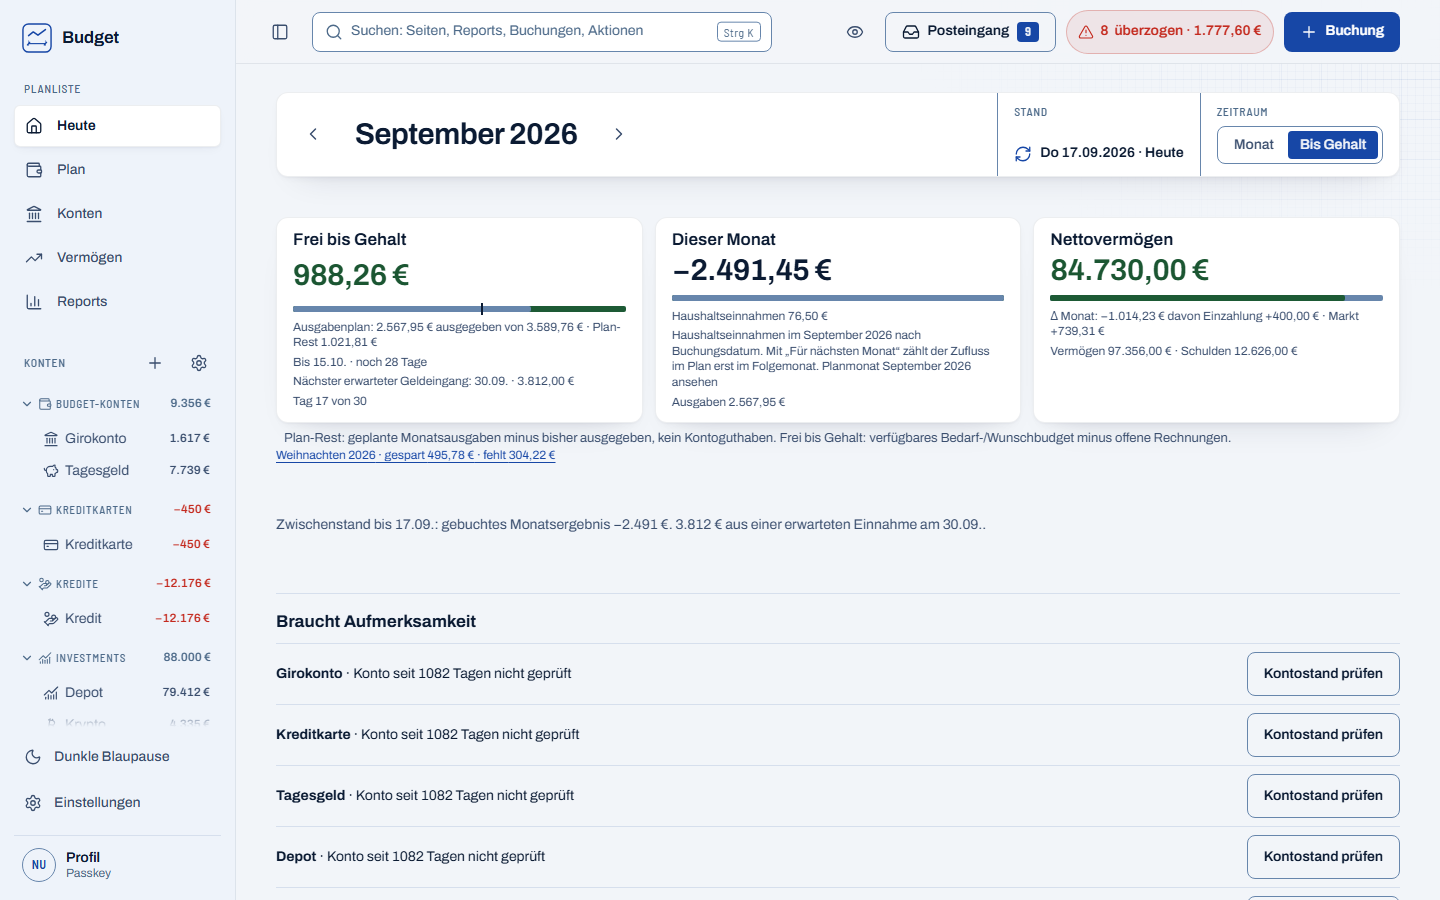
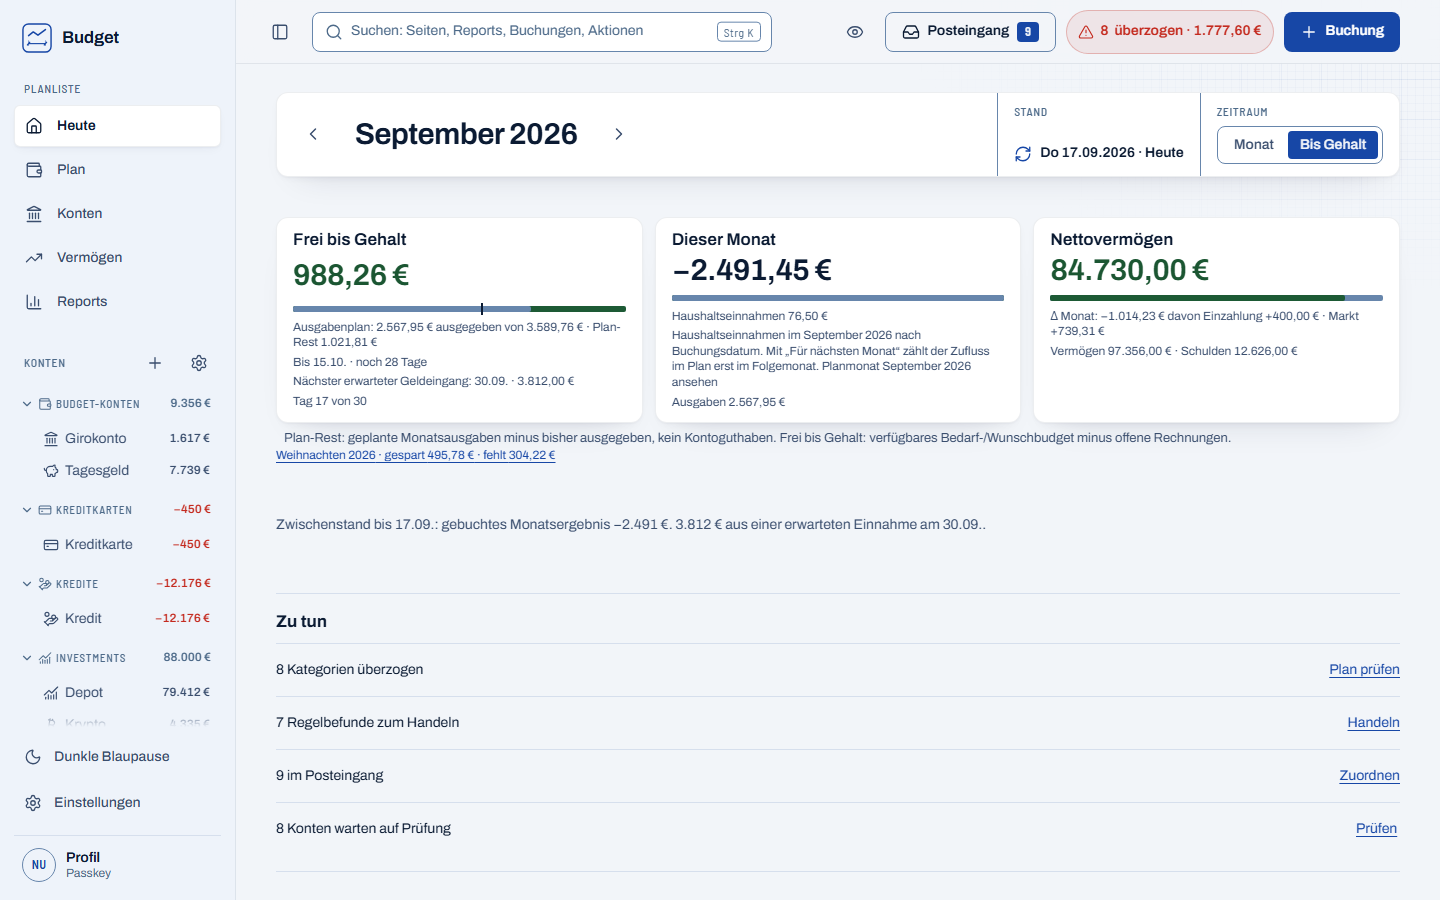
test(contrast): verify current UI against actual viewport bounds

Changed region(s): [[0.1875, 0.6844, 0.4062, 0.9644], [0.875, 0.7156, 0.9688, 1.0]]

diff --git a/e2e/contrast-tokens.spec.ts b/e2e/contrast-tokens.spec.ts
@@ -7,6 +7,7 @@ for (const theme of ['light', 'dark'] as const) {
     page,
   }, info) => {
     test.setTimeout(90_000);
+    const viewportWidth = page.viewportSize()!.width;
     await page.emulateMedia({ colorScheme: theme });
     await page.goto('/?monat=2026-09');
     await expect(page.getByTestId('heute-lead-value')).toBeVisible();
@@ -50,8 +51,8 @@ for (const theme of ['light', 'dark'] as const) {
     expect(ratios.text).toBeGreaterThanOrEqual(4.5);
     expect(ratios.positiveText).toBeGreaterThanOrEqual(4.5);
     expect((await new AxeBuilder({ page }).include('main').analyze()).violations).toEqual([]);
-    expect(await page.evaluate(() => document.documentElement.scrollWidth <= innerWidth)).toBe(
-      true,
+    expect(await page.evaluate(() => document.documentElement.scrollWidth)).toBeLessThanOrEqual(
+      viewportWidth,
     );
 
     const dir = 'docs/evidence/contrast-tokens-q1';
@@ -79,8 +80,8 @@ for (const theme of ['light', 'dark'] as const) {
     expect((await new AxeBuilder({ page }).include('dialog[open]').analyze()).violations).toEqual(
       [],
     );
-    expect(await page.evaluate(() => document.documentElement.scrollWidth <= innerWidth)).toBe(
-      true,
+    expect(await page.evaluate(() => document.documentElement.scrollWidth)).toBeLessThanOrEqual(
+      viewportWidth,
     );
     const fields = await form.locator('input, select, button').evaluateAll((elements) =>
       elements

diff --git a/docs/evidence/contrast-tokens-q1/README.md b/docs/evidence/contrast-tokens-q1/README.md
@@ -4,6 +4,6 @@ DESIGN.md remains the source for generated tokens. Field/segment boundaries and 
 
 Tinted hover/selected rows and selected controls inherit ink-2 for metadata normally using ink-3. Source RGB, linear-light luminance and alpha-composited tint tests verify light, system-dark, forced-dark and print. Browser checks also read the minified tokens and actual row metadata.
 
-Verification: 29 token/contrast unit tests passed, including local positive-hero alpha remapping. Six light/dark scenarios passed on desktop 1440, Chromium mobile 390 and WebKit iPhone 390 (9 tests including setup): Today and booking-dialog Axe clean, no horizontal page overflow, form targets at least 44px on phones, and metadata correctly inherits stronger ink. E2E build passed. Full repository check and required PR CI are recorded separately when complete.
+Verification after integrating current main (Z1, V1 and Q3): fresh web typecheck, changed-file ESLint/Prettier, CSS scale and E2E build passed. All 29 token/contrast unit tests passed again, including local positive-hero alpha remapping. Six light/dark scenarios passed on desktop 1440, Chromium mobile 390 and WebKit iPhone 390 (9 tests including setup): Today and booking-dialog Axe clean, actual viewport-width guards, form targets at least 44px on phones, and metadata correctly inherits stronger ink. E2E build passed. Required final-head PR CI and a fresh Linux snapshot workflow remain the integration gates. Twelve synthetic images were refreshed; desktop light Today and WebKit dark capture were visually reviewed.
 
 Synthetic evidence: [desktop light](desktop-light-capture.png), [desktop dark](desktop-dark-capture.png), [iPhone light](webkit-iphone-light-capture.png), [iPhone dark](webkit-iphone-dark-capture.png). The adjacent Today screenshots cover the positive fills. No financial data, write path, migration or dependency is changed. Linux baselines are generated only by the existing CI workflow.

diff --git a/docs/evidence/contrast-tokens-q1/PR.md b/docs/evidence/contrast-tokens-q1/PR.md
@@ -1,6 +1,6 @@
 Faint field borders, small metadata and dark positive fills were difficult to distinguish. This corrects DESIGN.md and regenerates the shared tokens: control boundaries and meaningful secondary lines reach 3:1, normal text reaches 4.5:1, and positive dark fills retain readable foregrounds. Hover/selection metadata uses stronger ink. DS1 retains ownership of the full teal/orange palette.
 
-Validation: 29 token/contrast unit tests passed, covering all normal surfaces, alpha-composited tints, positive-hero remapping, system/forced dark and print. Six browser scenarios passed on desktop, Chromium mobile and WebKit iPhone (9 including setup), with light/dark Axe, no horizontal overflow and 44px phone form targets. E2E build passed; required CI and Linux visual baselines gate the merge. Synthetic evidence is in docs/evidence/contrast-tokens-q1/.
+Validation after integrating current main (Z1, V1 and Q3): web typecheck, changed-file ESLint/Prettier, CSS scale and E2E build passed. All 29 token/contrast unit tests passed again, covering all normal surfaces, alpha-composited tints, positive-hero remapping, system/forced dark and print. Six browser scenarios passed on desktop, Chromium mobile and WebKit iPhone (9 including setup), with light/dark Axe, actual viewport-width guards and 44px phone form targets. E2E build passed; required CI and Linux visual baselines gate the merge. Synthetic evidence is in docs/evidence/contrast-tokens-q1/.
 
 ![Desktop light](https://raw.githubusercontent.com/Grabman1987/budget/feat/ux-q1-contrast-tokens/docs/evidence/contrast-tokens-q1/desktop-light-capture.png)
 
